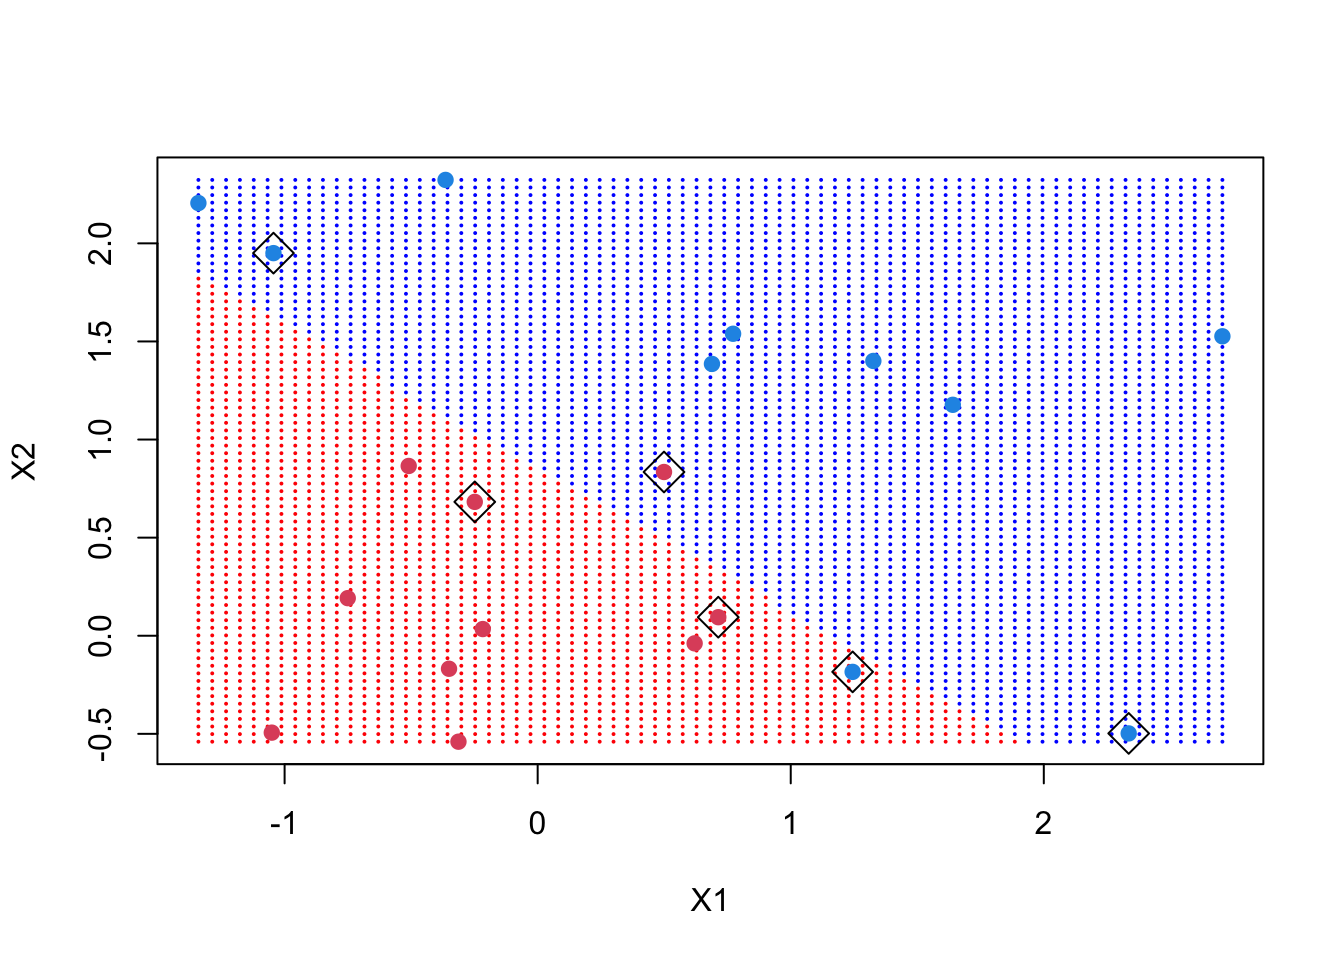
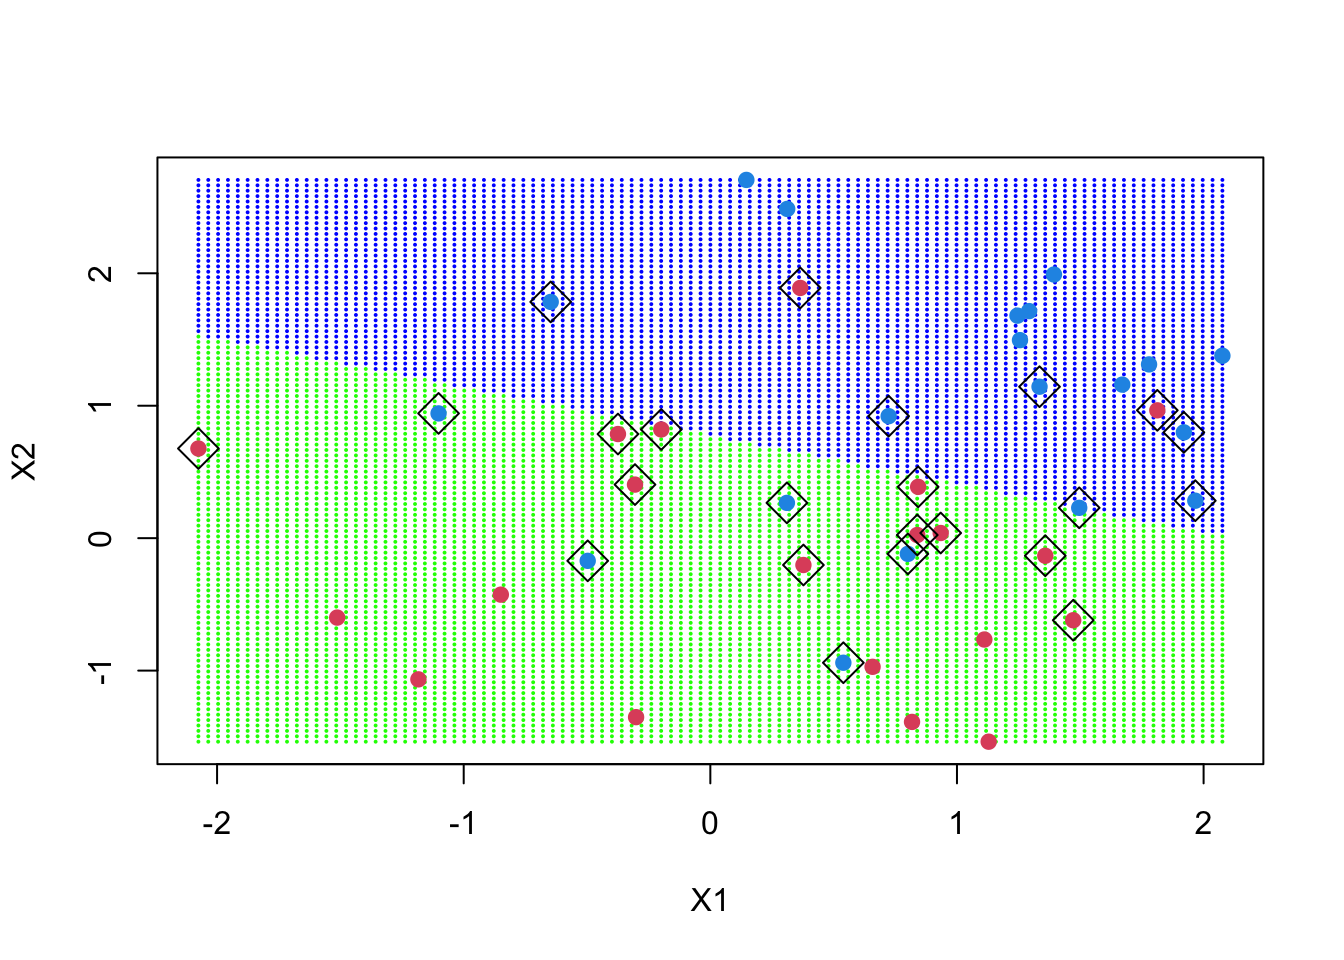
a

diff --git a/index.html b/index.html
@@ -211,8 +211,8 @@ div.csl-indent {
 <div class="cell">
 <details>
 <summary>Code</summary>
-<div class="sourceCode cell-code" id="cb1"><pre class="sourceCode r code-with-copy"><code class="sourceCode r"><span id="cb1-1"><a href="#cb1-1" aria-hidden="true" tabindex="-1"></a><span class="fu">set.seed</span>(<span class="dv">10111</span>)</span>
-<span id="cb1-2"><a href="#cb1-2" aria-hidden="true" tabindex="-1"></a>x <span class="ot">=</span> <span class="fu">matrix</span>(<span class="fu">rnorm</span>(<span class="dv">40</span>), <span class="dv">20</span>, <span class="dv">2</span>)</span>
+<div class="sourceCode cell-code" id="cb1"><pre class="sourceCode r code-with-copy"><code class="sourceCode r"><span id="cb1-1"><a href="#cb1-1" aria-hidden="true" tabindex="-1"></a><span class="fu">set.seed</span>(<span class="dv">19327</span>)</span>
+<span id="cb1-2"><a href="#cb1-2" aria-hidden="true" tabindex="-1"></a>x <span class="ot">=</span> <span class="fu">matrix</span>(<span class="fu">rnorm</span>(<span class="dv">80</span>), <span class="dv">40</span>, <span class="dv">2</span>)</span>
 <span id="cb1-3"><a href="#cb1-3" aria-hidden="true" tabindex="-1"></a>y <span class="ot">=</span> <span class="fu">rep</span>(<span class="fu">c</span>(<span class="sc">-</span><span class="dv">1</span>, <span class="dv">1</span>), <span class="fu">c</span>(<span class="dv">10</span>, <span class="dv">10</span>))</span>
 <span id="cb1-4"><a href="#cb1-4" aria-hidden="true" tabindex="-1"></a>x[y <span class="sc">==</span> <span class="dv">1</span>,] <span class="ot">=</span> x[y <span class="sc">==</span> <span class="dv">1</span>,] <span class="sc">+</span> <span class="dv">1</span></span>
 <span id="cb1-5"><a href="#cb1-5" aria-hidden="true" tabindex="-1"></a><span class="fu">plot</span>(x, <span class="at">col =</span> y <span class="sc">+</span> <span class="dv">3</span>, <span class="at">pch =</span> <span class="dv">19</span>)</span></code><button title="Copy to Clipboard" class="code-copy-button"><i class="bi"></i></button></pre></div>
@@ -244,7 +244,7 @@ Parameters:
  SVM-Kernel:  linear 
        cost:  10 
 
-Number of Support Vectors:  6</code></pre>
+Number of Support Vectors:  23</code></pre>
 </div>
 <details>
 <summary>Code</summary>
@@ -255,7 +255,7 @@ Number of Support Vectors:  6</code></pre>
 </div>
 <details>
 <summary>Code</summary>
-<div class="sourceCode cell-code" id="cb7"><pre class="sourceCode r code-with-copy"><code class="sourceCode r"><span id="cb7-1"><a href="#cb7-1" aria-hidden="true" tabindex="-1"></a>make.grid <span class="ot">=</span> <span class="cf">function</span>(x, <span class="at">n =</span> <span class="dv">75</span>) {</span>
+<div class="sourceCode cell-code" id="cb7"><pre class="sourceCode r code-with-copy"><code class="sourceCode r"><span id="cb7-1"><a href="#cb7-1" aria-hidden="true" tabindex="-1"></a>make.grid <span class="ot">=</span> <span class="cf">function</span>(x, <span class="at">n =</span> <span class="dv">105</span>) {</span>
 <span id="cb7-2"><a href="#cb7-2" aria-hidden="true" tabindex="-1"></a>  grange <span class="ot">=</span> <span class="fu">apply</span>(x, <span class="dv">2</span>, range)</span>
 <span id="cb7-3"><a href="#cb7-3" aria-hidden="true" tabindex="-1"></a>  x1 <span class="ot">=</span> <span class="fu">seq</span>(<span class="at">from =</span> grange[<span class="dv">1</span>,<span class="dv">1</span>], <span class="at">to =</span> grange[<span class="dv">2</span>,<span class="dv">1</span>], <span class="at">length =</span> n)</span>
 <span id="cb7-4"><a href="#cb7-4" aria-hidden="true" tabindex="-1"></a>  x2 <span class="ot">=</span> <span class="fu">seq</span>(<span class="at">from =</span> grange[<span class="dv">1</span>,<span class="dv">2</span>], <span class="at">to =</span> grange[<span class="dv">2</span>,<span class="dv">2</span>], <span class="at">length =</span> n)</span>
@@ -266,22 +266,22 @@ Number of Support Vectors:  6</code></pre>
 <span id="cb7-9"><a href="#cb7-9" aria-hidden="true" tabindex="-1"></a>xgrid[<span class="dv">1</span><span class="sc">:</span><span class="dv">10</span>,]</span></code><button title="Copy to Clipboard" class="code-copy-button"><i class="bi"></i></button></pre></div>
 </details>
 <div class="cell-output cell-output-stdout">
-<pre><code>           X1         X2
-1  -1.3406379 -0.5400074
-2  -1.2859572 -0.5400074
-3  -1.2312766 -0.5400074
-4  -1.1765959 -0.5400074
-5  -1.1219153 -0.5400074
-6  -1.0672346 -0.5400074
-7  -1.0125540 -0.5400074
-8  -0.9578733 -0.5400074
-9  -0.9031927 -0.5400074
-10 -0.8485120 -0.5400074</code></pre>
+<pre><code>          X1        X2
+1  -2.075718 -1.536734
+2  -2.035796 -1.536734
+3  -1.995873 -1.536734
+4  -1.955950 -1.536734
+5  -1.916028 -1.536734
+6  -1.876105 -1.536734
+7  -1.836183 -1.536734
+8  -1.796260 -1.536734
+9  -1.756337 -1.536734
+10 -1.716415 -1.536734</code></pre>
 </div>
 <details>
 <summary>Code</summary>
 <div class="sourceCode cell-code" id="cb9"><pre class="sourceCode r code-with-copy"><code class="sourceCode r"><span id="cb9-1"><a href="#cb9-1" aria-hidden="true" tabindex="-1"></a>ygrid <span class="ot">=</span> <span class="fu">predict</span>(svmfit, xgrid)</span>
-<span id="cb9-2"><a href="#cb9-2" aria-hidden="true" tabindex="-1"></a><span class="fu">plot</span>(xgrid, <span class="at">col =</span> <span class="fu">c</span>(<span class="st">"red"</span>,<span class="st">"blue"</span>)[<span class="fu">as.numeric</span>(ygrid)], <span class="at">pch =</span> <span class="dv">20</span>, <span class="at">cex =</span> .<span class="dv">2</span>)</span>
+<span id="cb9-2"><a href="#cb9-2" aria-hidden="true" tabindex="-1"></a><span class="fu">plot</span>(xgrid, <span class="at">col =</span> <span class="fu">c</span>(<span class="st">"green"</span>,<span class="st">"blue"</span>)[<span class="fu">as.numeric</span>(ygrid)], <span class="at">pch =</span> <span class="dv">20</span>, <span class="at">cex =</span> .<span class="dv">2</span>)</span>
 <span id="cb9-3"><a href="#cb9-3" aria-hidden="true" tabindex="-1"></a><span class="fu">points</span>(x, <span class="at">col =</span> y <span class="sc">+</span> <span class="dv">3</span>, <span class="at">pch =</span> <span class="dv">19</span>)</span>
 <span id="cb9-4"><a href="#cb9-4" aria-hidden="true" tabindex="-1"></a><span class="fu">points</span>(x[svmfit<span class="sc">$</span>index,], <span class="at">pch =</span> <span class="dv">5</span>, <span class="at">cex =</span> <span class="dv">2</span>)</span></code><button title="Copy to Clipboard" class="code-copy-button"><i class="bi"></i></button></pre></div>
 </details>
@@ -293,7 +293,7 @@ Number of Support Vectors:  6</code></pre>
 <div class="sourceCode cell-code" id="cb10"><pre class="sourceCode r code-with-copy"><code class="sourceCode r"><span id="cb10-1"><a href="#cb10-1" aria-hidden="true" tabindex="-1"></a>beta <span class="ot">=</span> <span class="fu">drop</span>(<span class="fu">t</span>(svmfit<span class="sc">$</span>coefs)<span class="sc">%*%</span>x[svmfit<span class="sc">$</span>index,])</span>
 <span id="cb10-2"><a href="#cb10-2" aria-hidden="true" tabindex="-1"></a>beta0 <span class="ot">=</span> svmfit<span class="sc">$</span>rho</span>
 <span id="cb10-3"><a href="#cb10-3" aria-hidden="true" tabindex="-1"></a></span>
-<span id="cb10-4"><a href="#cb10-4" aria-hidden="true" tabindex="-1"></a><span class="fu">plot</span>(xgrid, <span class="at">col =</span> <span class="fu">c</span>(<span class="st">"red"</span>, <span class="st">"blue"</span>)[<span class="fu">as.numeric</span>(ygrid)], <span class="at">pch =</span> <span class="dv">20</span>, <span class="at">cex =</span> .<span class="dv">2</span>)</span>
+<span id="cb10-4"><a href="#cb10-4" aria-hidden="true" tabindex="-1"></a><span class="fu">plot</span>(xgrid, <span class="at">col =</span> <span class="fu">c</span>(<span class="st">"green"</span>, <span class="st">"blue"</span>)[<span class="fu">as.numeric</span>(ygrid)], <span class="at">pch =</span> <span class="dv">20</span>, <span class="at">cex =</span> .<span class="dv">2</span>)</span>
 <span id="cb10-5"><a href="#cb10-5" aria-hidden="true" tabindex="-1"></a><span class="fu">points</span>(x, <span class="at">col =</span> y <span class="sc">+</span> <span class="dv">3</span>, <span class="at">pch =</span> <span class="dv">19</span>)</span>
 <span id="cb10-6"><a href="#cb10-6" aria-hidden="true" tabindex="-1"></a><span class="fu">points</span>(x[svmfit<span class="sc">$</span>index,], <span class="at">pch =</span> <span class="dv">5</span>, <span class="at">cex =</span> <span class="dv">2</span>)</span>
 <span id="cb10-7"><a href="#cb10-7" aria-hidden="true" tabindex="-1"></a><span class="fu">abline</span>(beta0 <span class="sc">/</span> beta[<span class="dv">2</span>], <span class="sc">-</span>beta[<span class="dv">1</span>] <span class="sc">/</span> beta[<span class="dv">2</span>])</span>
